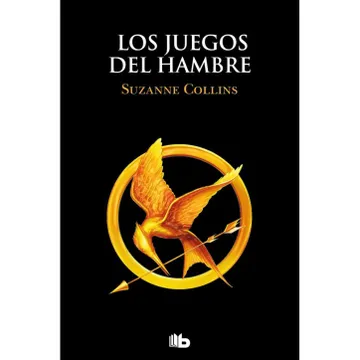
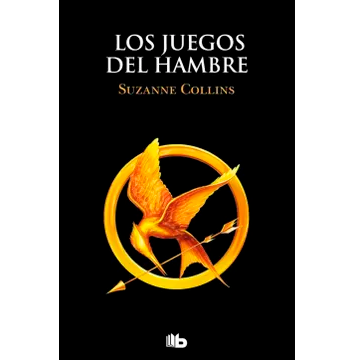
Adaptado estilo de catalogo de peliculas y libros a uno estandar de la pagina

diff --git a/assets/styles/catalogo.css b/assets/styles/catalogo.css
@@ -36,7 +36,8 @@ img{
     width: 100%;
 }
 body{
-    color: var(--text-color);
+    color: white;
+    background-color: #2D2924;
 }
 
 section{
@@ -61,7 +62,7 @@ section{
 
 .logo{
     font-size: 1.1rem;
-    color: var(--text-color);
+    color: white;
     font-weight: 400;
 }
 
@@ -98,7 +99,7 @@ section{
 .cart-img{
     width: 100px;
     height: 100px;
-    object-fit: contain;
+    object-fit: cover;
     padding: 10px;
 
 }
@@ -230,4 +231,5 @@ section{
 
 .add-cart:hover{
     background: hsl(0, 0%, 92%);
+    transition: 0.3s;
 }
